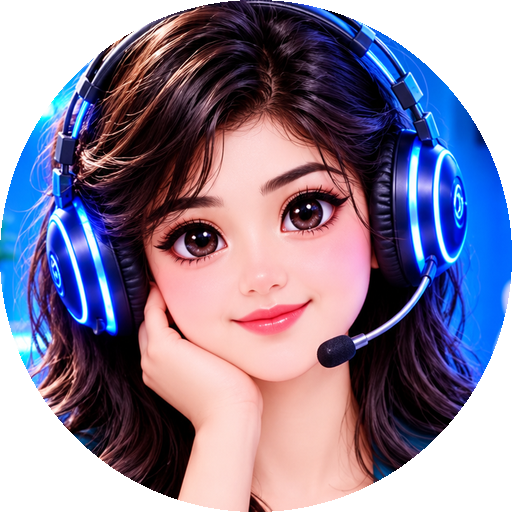
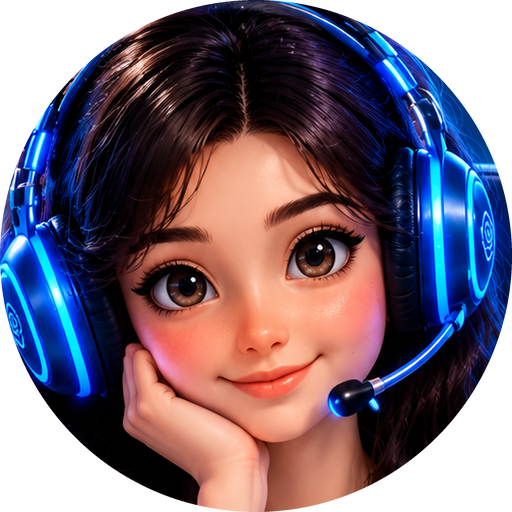
Add files via upload

diff --git a/src/components/auth/LoginScreen.tsx b/src/components/auth/LoginScreen.tsx
@@ -128,7 +128,7 @@ export const LoginScreen: React.FC = () => {
   };
 
   const field =
-    'flex h-12 w-full items-center gap-3 rounded-[10px] border border-white/15 bg-[#050B16]/80 px-3.5 text-sm text-white transition-colors focus-within:border-cyan-400/70 focus-within:shadow-[0_0_14px_rgba(34,211,238,0.25)]';
+    'flex h-11 lg:h-12 w-full items-center gap-3 rounded-[10px] border border-white/15 bg-[#050B16]/80 px-3.5 text-sm text-white transition-colors focus-within:border-cyan-400/70 focus-within:shadow-[0_0_14px_rgba(34,211,238,0.25)]';
   const inputBase = 'h-full min-w-0 flex-1 bg-transparent text-[13px] tracking-wide text-white placeholder:uppercase placeholder:tracking-wider placeholder:text-slate-400 focus:outline-none';
 
   const googleIcon = (
@@ -166,24 +166,24 @@ export const LoginScreen: React.FC = () => {
   );
 
   const card = (
-    <div className="relative w-full rounded-[22px] border border-cyan-400/60 bg-[#06101D]/90 px-5 pb-6 pt-7 shadow-[0_0_28px_rgba(34,211,238,0.35),inset_0_0_24px_rgba(34,211,238,0.06)] backdrop-blur-xl sm:px-8 lg:px-10 lg:pb-9 lg:pt-10">
+    <div className="relative w-full rounded-[22px] border border-cyan-400/60 bg-[#06101D]/90 px-5 pb-5 pt-4 shadow-[0_0_28px_rgba(34,211,238,0.35),inset_0_0_24px_rgba(34,211,238,0.06)] backdrop-blur-xl sm:px-8 lg:px-10 lg:pb-9 lg:pt-10">
       {/* Logo */}
       <div className="flex flex-col items-center text-center">
-        <div className="flex h-14 w-14 items-center justify-center rounded-full border-2 border-cyan-400 bg-cyan-500/10 shadow-[0_0_18px_rgba(34,211,238,0.5)] lg:h-20 lg:w-20">
-          <span className="flex items-center gap-[3px]" aria-hidden="true">
+        <div className="flex h-10 w-10 items-center justify-center rounded-full border-2 border-cyan-400 bg-cyan-500/10 shadow-[0_0_18px_rgba(34,211,238,0.5)] lg:h-20 lg:w-20">
+          <span className="flex scale-[0.62] items-center gap-[3px] lg:scale-100" aria-hidden="true">
             {[8, 16, 24, 16, 8].map((h, i) => (
               <span key={i} className="w-[4px] rounded-full bg-cyan-300 lg:w-[5px]" style={{ height: h }} />
             ))}
           </span>
         </div>
-        <h1 className="mt-3 pl-[0.6em] font-display text-3xl font-medium tracking-[0.6em] text-white drop-shadow-[0_0_10px_rgba(255,255,255,0.35)] lg:text-5xl">
+        <h1 className="mt-2 pl-[0.6em] font-display text-xl font-medium tracking-[0.6em] text-white drop-shadow-[0_0_10px_rgba(255,255,255,0.35)] lg:mt-3 lg:text-5xl">
           ROSE
         </h1>
-        <p className="mt-2 text-[12.5px] text-slate-300 lg:text-sm">Sign in to continue to your voice assistant</p>
+        <p className="mt-1 text-[11px] text-slate-300 lg:mt-2 lg:text-sm">Sign in to continue to your voice assistant</p>
       </div>
 
       {/* Tabs */}
-      <div role="tablist" aria-label="Authentication mode" className="mt-5 grid grid-cols-2 border-b border-white/10">
+      <div role="tablist" aria-label="Authentication mode" className="mt-3 grid grid-cols-2 border-b border-white/10 lg:mt-5">
         {(['signin', 'signup'] as AuthTab[]).map((t) => (
           <button
             key={t}
@@ -191,7 +191,7 @@ export const LoginScreen: React.FC = () => {
             role="tab"
             aria-selected={tab === t}
             onClick={() => switchTab(t)}
-            className={`relative h-11 text-[13px] font-bold tracking-wider transition-colors ${
+            className={`relative h-10 text-[12.5px] font-bold lg:h-11 lg:text-[13px] tracking-wider transition-colors ${
               tab === t ? 'text-cyan-300' : 'text-slate-300 hover:text-white'
             }`}
           >
@@ -201,7 +201,7 @@ export const LoginScreen: React.FC = () => {
         ))}
       </div>
 
-      <form onSubmit={handleEmailSubmit} className="mt-5 space-y-3" noValidate>
+      <form onSubmit={handleEmailSubmit} className="rose-auth mt-4 space-y-2.5 lg:mt-5 lg:space-y-3" noValidate>
         {tab === 'signup' && (
           <label className={field}>
             <User className="h-5 w-5 shrink-0 text-slate-300" />
@@ -320,7 +320,7 @@ export const LoginScreen: React.FC = () => {
       {/* ---------- PC: picture left, card right ---------- */}
       <div className="hidden min-h-full lg:grid lg:grid-cols-2">
         <div className="relative min-h-screen overflow-hidden">
-          <img src="/auth/login-pc.jpg" alt="ROSE" className="absolute inset-0 h-full w-full object-cover object-center" />
+          <img src="/tiya-home.jpg?v=3" alt="ROSE" className="absolute inset-0 h-full w-full object-cover object-[center_32%]" />
           <div className="absolute inset-y-0 right-0 w-40 bg-gradient-to-r from-transparent to-[#030814]" />
         </div>
         <div className="relative flex min-h-screen items-center justify-center px-10 py-10">
@@ -331,11 +331,11 @@ export const LoginScreen: React.FC = () => {
 
       {/* ---------- Mobile / tablet: picture on top, card overlapping below ---------- */}
       <div className="relative min-h-full lg:hidden">
-        <div className="absolute inset-x-0 top-0 h-[62vh] max-h-[640px] overflow-hidden">
-          <img src="/auth/login-mobile.jpg" alt="ROSE" className="h-full w-full object-cover object-top" />
-          <div className="absolute inset-x-0 bottom-0 h-1/2 bg-gradient-to-b from-transparent via-[#030814]/70 to-[#030814]" />
+        <div className="absolute inset-x-0 top-0 h-[68vh] max-h-[720px] overflow-hidden">
+          <img src="/auth/login-mobile.jpg?v=3" alt="ROSE" className="h-full w-full object-cover object-top" />
+          <div className="absolute inset-x-0 bottom-0 h-[34%] bg-gradient-to-b from-transparent via-[#030814]/70 to-[#030814]" />
         </div>
-        <div className="relative mx-auto w-full max-w-[460px] px-4 pb-6 pt-[36vh]">{card}</div>
+        <div className="relative mx-auto w-full max-w-[460px] px-4 pb-5 pt-[min(52vh,470px)]">{card}</div>
       </div>
     </div>
   );

diff --git a/src/components/desktop/DesktopHub.tsx b/src/components/desktop/DesktopHub.tsx
@@ -133,7 +133,7 @@ export const DesktopTopBar: React.FC<{
   return (
     <header className="col-span-2 flex h-14 items-center gap-3 rounded-[10px] border border-white/[0.08] bg-[#0D0B1A]/90 px-3">
       <div className="flex items-center gap-2 pr-1">
-        <img src="/icons/icon-192.png" alt="" className="h-8 w-8 rounded-[8px]" />
+        <img src="/icons/icon-192.png?v=3" alt="" className="h-9 w-9 rounded-full border-2 border-fuchsia-400/70 object-cover" />
         <div className="leading-tight">
           <p className="text-sm font-extrabold tracking-[0.25em] text-white">ROSE</p>
           <p className="text-[9.5px] text-slate-400">Live Operations Hub</p>
@@ -148,13 +148,13 @@ export const DesktopTopBar: React.FC<{
           </button>
         )}
       </div>
-      <nav className="flex items-center gap-1">
+      <nav className="flex items-center gap-1 rounded-[8px] border border-white/[0.06] bg-black/25 p-1">
         {tabs.map(([id, label, icon]) => (
           <button
             key={id}
             type="button"
             onClick={() => onTab(id)}
-            className={`flex h-9 items-center gap-1.5 rounded-[6px] px-3 text-xs font-semibold transition-colors ${
+            className={`flex h-8 items-center gap-1.5 rounded-[6px] px-3 text-xs font-semibold transition-colors ${
               tab === id ? 'bg-gradient-to-r from-violet-600 to-fuchsia-600 text-white shadow-[0_0_20px_-6px_#a855f7]' : 'text-slate-300 hover:bg-white/[0.06]'
             }`}
           >
@@ -162,15 +162,15 @@ export const DesktopTopBar: React.FC<{
           </button>
         ))}
       </nav>
-      <div className="ml-auto flex items-center gap-2">
+      <div className="ml-auto flex items-center gap-1.5 rounded-full border border-white/[0.08] bg-black/25 py-1 pl-1 pr-1">
+        <VoiceOrb on={voiceOn} state={voiceState} onClick={onVoice} />
+        <button type="button" onClick={onMicSettings} title="Microphone" className={round}>
+          {voiceOn ? <Mic className="h-4 w-4 text-fuchsia-300" /> : <MicOff className="h-4 w-4" />}
+        </button>
         <button type="button" onClick={() => setCamOpen(true)} title="Camera" className={round}>
           {camOpen ? <CameraOff className="h-4 w-4" /> : <Camera className="h-4 w-4" />}
         </button>
-        <button type="button" onClick={onMicSettings} title="Microphone settings" className={round}>
-          {voiceOn ? <Mic className="h-4 w-4 text-fuchsia-300" /> : <MicOff className="h-4 w-4" />}
-        </button>
-        <VoiceOrb on={voiceOn} state={voiceState} onClick={onVoice} />
-        <button type="button" onClick={onBell} className={`relative ${round}`}>
+        <button type="button" onClick={onBell} title="Notifications" className={`relative ${round}`}>
           <Bell className="h-4 w-4" />
           {unread > 0 && (
             <span className="absolute -right-1 -top-1 flex h-4 min-w-4 items-center justify-center rounded-full bg-rose-500 px-1 text-[9px] font-bold text-white">
@@ -178,11 +178,17 @@ export const DesktopTopBar: React.FC<{
             </span>
           )}
         </button>
-        <div className="flex items-center gap-2 rounded-[6px] border border-white/10 px-2 py-1">
-          {avatar ? <img src={avatar} alt="" referrerPolicy="no-referrer" className="h-7 w-7 rounded-full object-cover" /> : <span className="h-7 w-7 rounded-full bg-violet-600" />}
-          <span className="max-w-[150px] truncate text-[11px] text-slate-300">{email}</span>
-        </div>
-        <button type="button" onClick={onSignOut} title="Sign out" className={`${round} hover:text-rose-300`}>
+        <span className="mx-0.5 h-6 w-px bg-white/10" />
+        <span title={email || ''} className="flex h-9 w-9 items-center justify-center rounded-full bg-gradient-to-br from-violet-500 to-cyan-400 p-[2px]">
+          {avatar ? (
+            <img src={avatar} alt="" referrerPolicy="no-referrer" className="h-full w-full rounded-full object-cover" />
+          ) : (
+            <span className="flex h-full w-full items-center justify-center rounded-full bg-[#0D0B1A] text-[11px] font-bold text-white">
+              {(email || '?')[0].toUpperCase()}
+            </span>
+          )}
+        </span>
+        <button type="button" onClick={onSignOut} title="Sign out" className={`${round} hover:border-rose-400/60 hover:text-rose-300`}>
           <LogOut className="h-4 w-4" />
         </button>
       </div>
@@ -588,11 +594,11 @@ export const DesktopRosePanel: React.FC<{
   return (
     <aside className="relative flex min-h-0 w-full flex-col overflow-hidden rounded-[10px] border border-white/[0.08] bg-[#120F22]">
       {/* ROSE as a soft watermark behind the whole chat */}
-      <img src="/tiya-home.jpg" alt="" aria-hidden className="pointer-events-none absolute inset-0 h-full w-full scale-110 object-cover object-top opacity-35 blur-[3px]" />
+      <img src="/tiya-home.jpg?v=3" alt="" aria-hidden className="pointer-events-none absolute inset-0 h-full w-full scale-110 object-cover object-[center_38%] opacity-35 blur-[3px]" />
       <div className="pointer-events-none absolute inset-0 bg-gradient-to-b from-[#120F22]/70 via-[#120F22]/55 to-[#120F22]/90" />
 
       <div className="relative flex shrink-0 items-center gap-3 border-b border-white/[0.08] px-3 py-2.5 backdrop-blur-sm">
-        <img src="/agents/rose.png" alt="ROSE" className="h-10 w-10 rounded-full border-2 border-fuchsia-400 object-cover" />
+        <img src="/agents/rose.png?v=3" alt="ROSE" className="h-10 w-10 rounded-full border-2 border-fuchsia-400 object-cover" />
         <div className="min-w-0 flex-1">
           <p className="text-sm font-extrabold tracking-[0.25em] text-white">ROSE</p>
           <p className="flex items-center gap-1.5 text-[11px] text-emerald-300">

diff --git a/src/lib/agents.ts b/src/lib/agents.ts
@@ -20,7 +20,7 @@ export interface AgentInfo {
 }
 
 export const AGENTS: AgentInfo[] = [
-  { id: 'rose', name: 'ROSE', nameBn: 'রোজ', role: 'Chief Manager', color: '#FF4D8D', skills: 'Plans the work, gives tasks to the team and reports to the owner.', photo: '/agents/rose.png' },
+  { id: 'rose', name: 'ROSE', nameBn: 'রোজ', role: 'Chief Manager', color: '#FF4D8D', skills: 'Plans the work, gives tasks to the team and reports to the owner.', photo: '/agents/rose.png?v=3' },
   { id: 'mira', name: 'MIRA', nameBn: 'মিরা', role: 'Customer Communication', color: '#2DD4BF', skills: 'Writes replies to customers, follow-up messages, offers and FAQ answers.', photo: '/agents/mira.png' },
   { id: 'arin', name: 'ARIN', nameBn: 'আরিন', role: 'Sales & Orders', color: '#60A5FA', skills: 'Checks orders, prices, stock and sales; prepares order summaries.', photo: '/agents/arin.png' },
   { id: 'zayan', name: 'ZAYAN', nameBn: 'জায়ান', role: 'Parcel & Delivery', color: '#FBBF24', skills: 'Plans deliveries, writes delivery notes and tracking updates.', photo: '/agents/zayan.png' },

diff --git a/src/components/site/Landing.tsx b/src/components/site/Landing.tsx
@@ -197,7 +197,7 @@ export const Landing: React.FC = () => {
           <div className="relative mx-auto w-full max-w-sm">
             <div className="absolute -inset-6 rounded-full bg-pink-500/20 blur-3xl" />
             <div className="relative overflow-hidden rounded-[6px] border border-white/10 shadow-2xl">
-              <img src="/tiya-home.jpg" alt="ROSE app home screen" className="aspect-[9/16] w-full object-cover" />
+              <img src="/tiya-home.jpg?v=3" alt="ROSE app home screen" className="aspect-[9/16] w-full object-cover" />
               <div className="absolute inset-x-0 bottom-0 bg-gradient-to-t from-black/90 to-transparent p-4">
                 <p className="text-xs font-bold tracking-[0.3em] text-pink-200">ROSE</p>
                 <p className="mt-1 text-sm text-slate-100">"আসসালামু আলাইকুম! আমি রোজ, আজ কীভাবে সাহায্য করতে পারি?"</p>

diff --git a/src/index.css b/src/index.css
@@ -85,3 +85,18 @@
 .animate-orb-ripple {
   animation: orbRipple 2.2s cubic-bezier(0.16, 1, 0.3, 1) infinite;
 }
+
+/* ROSE login: no white autofill box, text looks the same as typed password */
+.rose-auth input:-webkit-autofill,
+.rose-auth input:-webkit-autofill:hover,
+.rose-auth input:-webkit-autofill:focus,
+.rose-auth input:-webkit-autofill:active {
+  -webkit-text-fill-color: #ffffff !important;
+  caret-color: #ffffff;
+  -webkit-box-shadow: 0 0 0 1000px #050b16 inset !important;
+  box-shadow: 0 0 0 1000px #050b16 inset !important;
+  transition: background-color 9999s ease-in-out 0s;
+  font-size: 13px;
+}
+.rose-auth input { background-color: transparent !important; }
+

diff --git a/src/components/settings/AboutLookPhonePages.tsx b/src/components/settings/AboutLookPhonePages.tsx
@@ -504,7 +504,7 @@ const AppDeveloperCard: React.FC = () => {
           rel="noreferrer"
           className="flex items-center gap-3 rounded-[4px] border border-white/[0.08] bg-[#11151E] p-2.5"
         >
-          <img src={d.photo_url || '/tiya-avatar.png'} alt="" className="h-12 w-12 rounded-[4px] object-cover" />
+          <img src={d.photo_url || '/tiya-avatar.png?v=3'} alt="" className="h-12 w-12 rounded-[4px] object-cover" />
           <span className="min-w-0 flex-1">
             <span className="block truncate text-sm font-bold text-white">{d.full_name}</span>
             <span className="block truncate text-[11px] text-slate-400">{d.title || 'Developer'}</span>

diff --git a/src/components/TiyaHologramStage.tsx b/src/components/TiyaHologramStage.tsx
@@ -332,7 +332,7 @@ export const TiyaHologramStage: React.FC<TiyaHologramStageProps> = ({
 
       {/* Base Hologram Hero Image */}
       <img
-        src="/tiya-hologram.png"
+        src="/tiya-home.jpg?v=3"
         alt="ROSE Hologram"
         draggable={false}
         className="h-full w-full select-none object-cover object-[50%_42%]"
@@ -353,7 +353,7 @@ export const TiyaHologramStage: React.FC<TiyaHologramStageProps> = ({
           }}
         >
           <img
-            src="/tiya-hologram.png"
+            src="/tiya-home.jpg?v=3"
             alt=""
             draggable={false}
             className="h-full w-full select-none object-cover object-[50%_42%]"

diff --git a/src/components/site/DevelopersPage.tsx b/src/components/site/DevelopersPage.tsx
@@ -103,7 +103,7 @@ const DevSection: React.FC<{ d: Developer; accent: string }> = ({ d, accent }) =
       <div className="relative flex items-center gap-4 border-b border-white/[0.08] p-4 sm:gap-5 sm:p-5" style={{ background: `linear-gradient(90deg, ${accent}22, transparent 70%)` }}>
         <span className="absolute inset-y-0 left-0 w-1" style={{ background: accent }} />
         <img
-          src={d.photo_url || '/tiya-avatar.png'}
+          src={d.photo_url || '/tiya-avatar.png?v=3'}
           alt={d.full_name}
           className="h-20 w-20 shrink-0 rounded-[6px] border-2 object-cover object-top sm:h-24 sm:w-24"
           style={{ borderColor: accent }}

diff --git a/src/components/site/DeveloperProfile.tsx b/src/components/site/DeveloperProfile.tsx
@@ -68,7 +68,7 @@ export const DeveloperDetails: React.FC<{ p: DevProfile; dark?: boolean }> = ({ 
     <div>
       <div className="flex items-center gap-4">
         <img
-          src={p.photo_url || '/tiya-avatar.png'}
+          src={p.photo_url || '/tiya-avatar.png?v=3'}
           alt={p.full_name || 'Developer'}
           className="h-20 w-20 shrink-0 rounded-[6px] border border-white/10 object-cover"
         />

diff --git a/src/components/ChatScreen.tsx b/src/components/ChatScreen.tsx
@@ -148,7 +148,7 @@ export const ChatScreen: React.FC<ChatScreenProps> = ({
     <div className="relative flex h-full min-h-0 flex-1 flex-col overflow-hidden bg-[#020714] text-slate-100">
       {/* Same ROSE picture as HOME, blurred and darkened behind the chat */}
       <img
-        src="/tiya-home.jpg"
+        src="/tiya-home.jpg?v=3"
         alt=""
         aria-hidden="true"
         draggable={false}

diff --git a/src/components/HomeScreen.tsx b/src/components/HomeScreen.tsx
@@ -109,7 +109,7 @@ export const HomeScreen: React.FC<HomeScreenProps> = ({
     <div className="relative flex h-full min-h-0 flex-1 flex-col overflow-hidden bg-[#020714] text-slate-100">
       {/* Full-screen ROSE picture */}
       <img
-        src="/tiya-home.jpg"
+        src="/tiya-home.jpg?v=3"
         alt=""
         aria-hidden="true"
         draggable={false}
